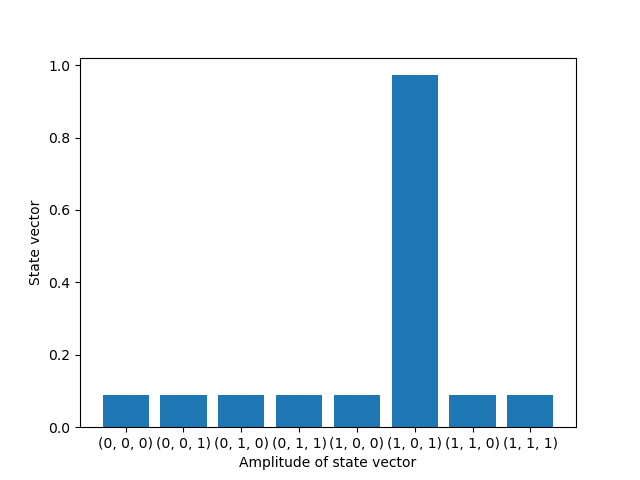
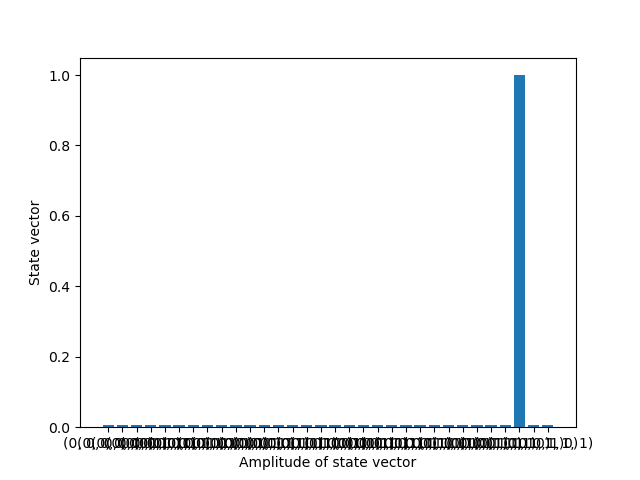
minor changes

diff --git a/templates/shors.html b/templates/shors.html
@@ -33,7 +33,7 @@
 
 
 
-<label for="target" id= "state">Enter Integer value :</label> <input id="target" name="target" type="number" required min="0"/>
+<label for="target" id= "state">Enter Integer value :</label> <input id="target" name="target" type="number" required min="4"/>
 
 <button type="submit" class="btn btn-dark" id = "search">Serach</button>
 </form>

diff --git a/templates/shor_factor.html b/templates/shor_factor.html
@@ -16,7 +16,6 @@
     </button>
     <div class="collapse navbar-collapse" id="navbarNavAltMarkup">
       <div class="navbar-nav">
-        <a class="nav-link active" aria-current="page" href="#">Home</a>
         <a class="nav-link" href="{{url_for('shors')}}">Shors algorithm</a>
       </div>
     </div>

diff --git a/test.py b/test.py
@@ -7,11 +7,11 @@ from grover_sparse import grovers_algorithm
 
 if __name__ == "__main__":
 
-    option = 2
+    option = 1
 
     if option == 1:
         # run Grover's algorithm
-        grovers_algorithm(8, 4)
+        grovers_algorithm(10, 0)
 
     else:
         factors,ft = shors_algorithm(8)
